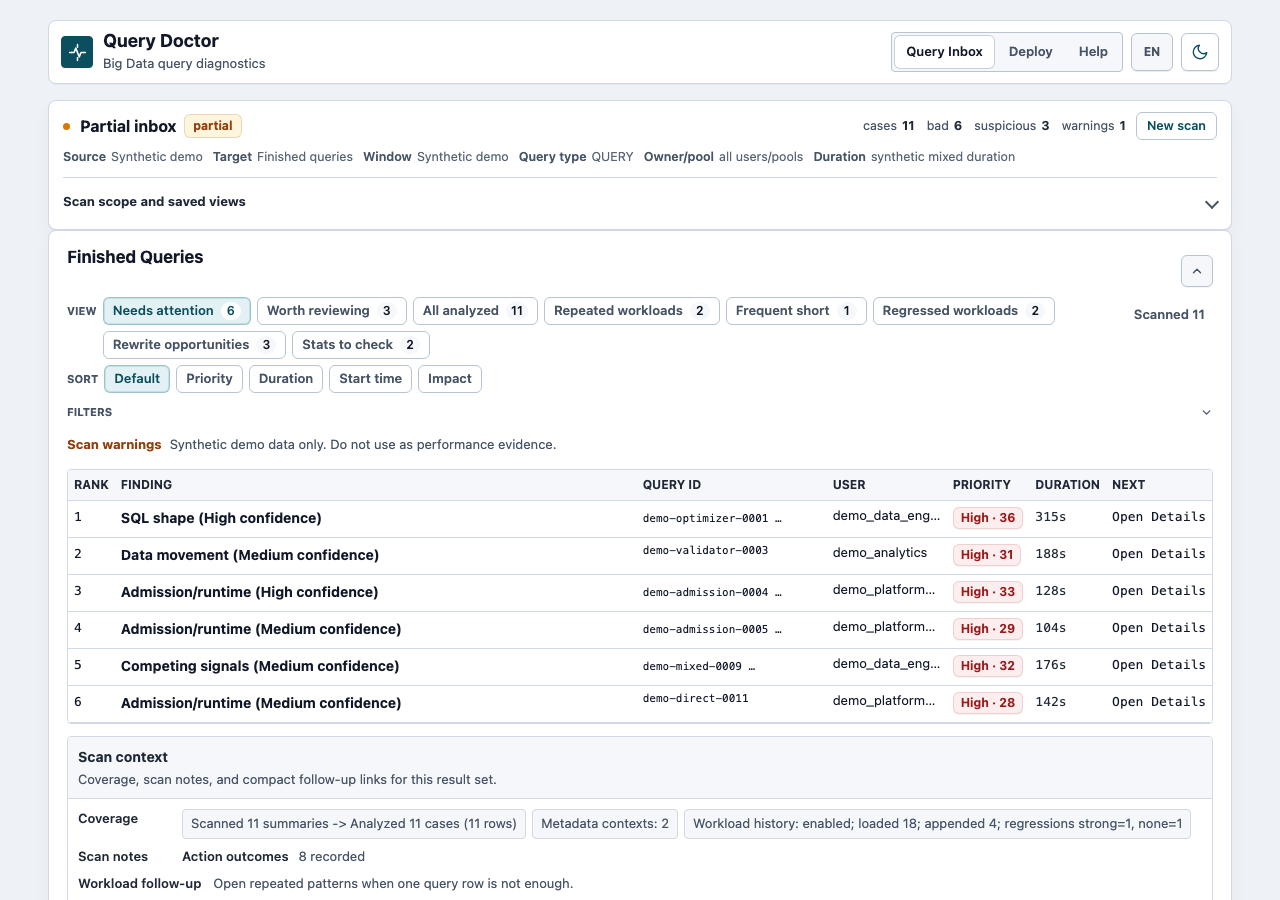
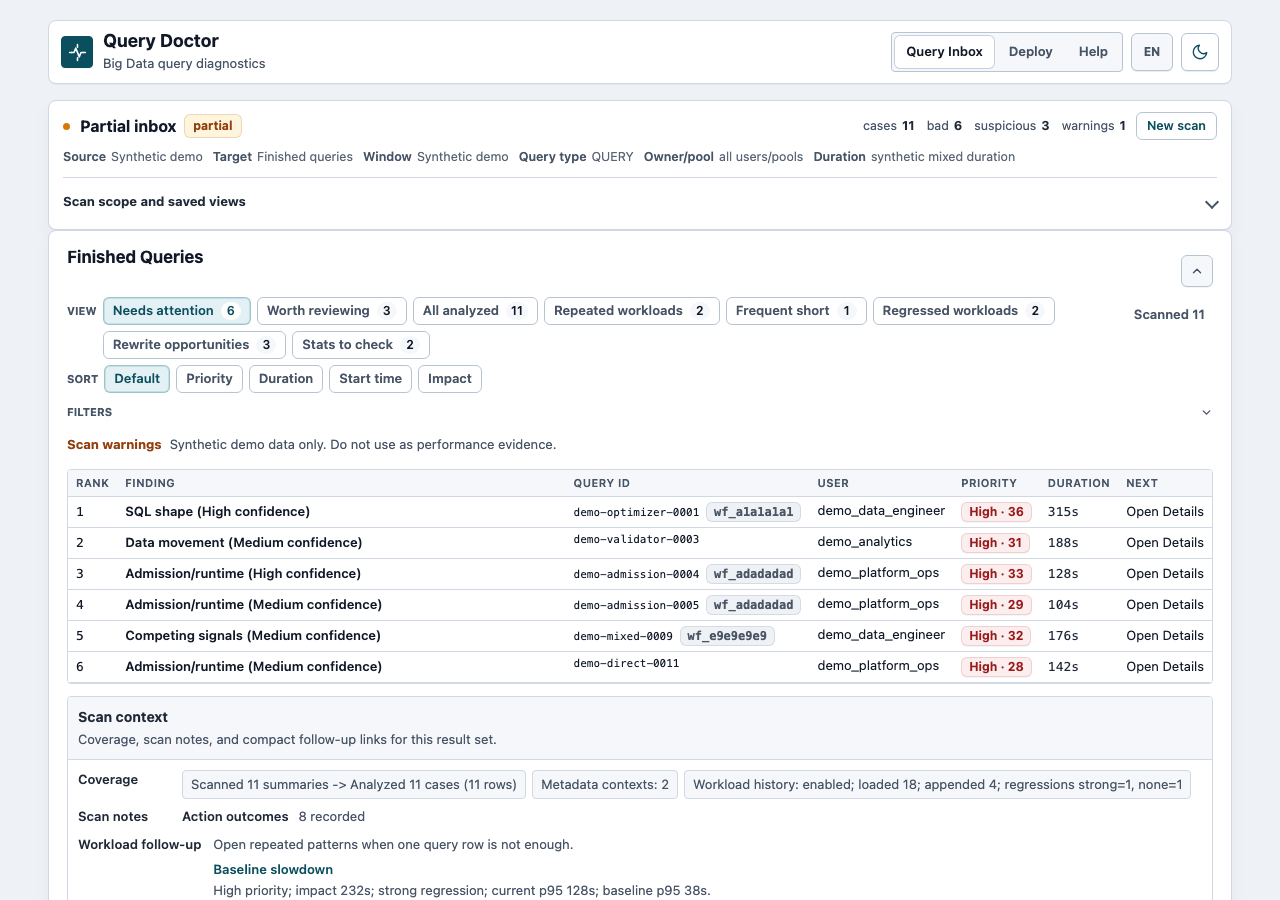
Let the results table hold a query id
The query id column was capped at 190px while the id and the workload
fingerprint beside it needed 240px, so every grouped row ended in an ellipsis
and the fingerprint was never readable. The cap is 264px now and the id gets
the space first; the fingerprint is what gives way when a real 33-character id
arrives.

Rows are 31px instead of 37px, headers stop shouting in bold 12px, and the row
action stops being rendered in monospace. The user column gets 32px more before
it truncates.

On the synthetic demo at 1280x900 the All analyzed view now fits all 11 rows in
the first screen, against 2 before this change and the first-screen change
together. The README screenshots and the demo capture note follow: the results
view fits its Scan context in one 1280x1024 viewport, so the capture no longer
needs the #scan-context anchor.

Changed region(s): [[0.0625, 0.5289, 0.9375, 1.0]]

diff --git a/query_doctor/web/static/app.css b/query_doctor/web/static/app.css
@@ -3683,7 +3683,7 @@ html[data-theme=dark] select.input {
 
 .batch-table th,.batch-table td {
   border-bottom:1px solid var(--border);
-  padding:6px;
+  padding:5px 8px;
   text-align:left;
   vertical-align:top
 }
@@ -3692,11 +3692,11 @@ html[data-theme=dark] select.input {
   position:sticky;
   top:0;
   background:var(--panel-muted);
-  color:var(--strong);
-  font-size:12px;
+  color:var(--muted);
+  font-size:11px;
   text-transform:uppercase;
-  letter-spacing:0;
-  font-weight:700
+  letter-spacing:.04em;
+  font-weight:600
 }
 
 .batch-row {
@@ -3736,10 +3736,14 @@ html[data-theme=dark] select.input {
   vertical-align:middle
 }
 
+.batch-cell--action {
+  font-family:var(--sans)
+}
+
 .batch-cell--query-id {
   width:1%;
-  min-width:160px;
-  max-width:190px;
+  min-width:190px;
+  max-width:264px;
   font-family:var(--mono);
   font-size:11px;
   line-height:1.3;
@@ -3752,7 +3756,7 @@ html[data-theme=dark] select.input {
 .batch-cell--user {
   width:1%;
   min-width:76px;
-  max-width:120px;
+  max-width:152px;
   font-size:13px;
   line-height:1.3;
   white-space:nowrap;
@@ -3766,11 +3770,16 @@ html[data-theme=dark] select.input {
   white-space:normal
 }
 
+.batch-cell--summary strong:last-child {
+  margin-bottom:0
+}
+
 .batch-cell--summary strong {
   display:block;
   margin-bottom:3px;
   color:var(--text);
-  font-size:14px;
+  font-size:13px;
+  font-weight:600;
   overflow-wrap:anywhere
 }
 
@@ -3917,8 +3926,8 @@ html[data-theme=dark] select.input {
 .batch-mini-badge {
   display:inline-flex;
   align-items:center;
-  min-height:22px;
-  padding:3px 7px;
+  min-height:20px;
+  padding:2px 7px;
   border-radius:var(--radius-sm);
   border:1px solid transparent;
   font-size:12px;
@@ -5356,35 +5365,35 @@ html[data-design=command] .badge,html[data-design=command] .batch-mini-badge {
 
 .query-inbox-status-main {
   grid-template-columns:auto minmax(0,1fr);
-  gap:8px
+  align-items:start;
+  gap:6px 8px
 }
 
-.query-inbox-status-main .badge {
+.query-inbox-status-heading {
+  flex-wrap:wrap
+}
+
+.query-inbox-metrics {
+  grid-column:2;
+  justify-content:flex-start;
+  gap:4px 10px
+}
+
+.query-inbox-action {
   grid-column:2;
   justify-self:start
 }
 
 .query-inbox-status-main h1 {
-  font-size:18px
-}
-
-.query-inbox-metrics {
-  gap:6px;
-  margin-top:10px
-}
-
-.query-inbox-metric {
-  min-height:26px;
-  padding:4px 7px;
-  font-size:12.5px
+  font-size:16px
 }
 
 .query-inbox-scope {
-  gap:5px;
+  gap:2px 10px;
   margin-top:8px
 }
 
-.query-inbox-scope-item,.query-inbox-active-filter-chip {
+.query-inbox-active-filter-chip {
   flex:1 1 auto;
   min-height:26px;
   padding:4px 7px;
@@ -5814,9 +5823,8 @@ html[data-design=command] .badge,html[data-design=command] .batch-mini-badge {
 }
 
 .case-verdict-chip {
-  align-items:flex-start;
-  width:100%;
-  border-radius:var(--radius-sm)
+  align-items:baseline;
+  width:100%
 }
 
 .case-verdict-chip strong {

diff --git a/tests/test_web_server.py b/tests/test_web_server.py
@@ -4638,7 +4638,8 @@ def test_web_batch_route_renders_configured_summary_safely(tmp_path):
     assert_css_contains(styles, ".batch-filter-tabs{flex-wrap:wrap;overflow-x:visible;")
     assert_css_contains(styles, ".batch-scan-details{margin-bottom:12px;")
     assert_css_contains(
-        styles, ".batch-table th,.batch-table td{border-bottom:1px solid var(--border);padding:6px;"
+        styles,
+        ".batch-table th,.batch-table td{border-bottom:1px solid var(--border);padding:5px 8px;",
     )
     assert_css_contains(
         styles,
@@ -4668,8 +4669,8 @@ def test_web_batch_route_renders_configured_summary_safely(tmp_path):
         ".batch-results-table--suspicious td:nth-child(7)::before,"
         '.batch-results-table--all td:nth-child(7)::before{content:"Next"}',
     )
-    assert_css_contains(styles, ".batch-cell--query-id{width:1%;min-width:160px;max-width:190px;")
-    assert_css_contains(styles, ".batch-cell--user{width:1%;min-width:76px;max-width:120px;")
+    assert_css_contains(styles, ".batch-cell--query-id{width:1%;min-width:190px;max-width:264px;")
+    assert_css_contains(styles, ".batch-cell--user{width:1%;min-width:76px;max-width:152px;")
     assert_css_contains(styles, ".batch-cell--summary{width:100%;min-width:320px;")
     assert 'class="batch-cell--compact"' in body
     assert 'class="batch-cell--query-id"' in body

diff --git a/docs/changelog.md b/docs/changelog.md
@@ -24,6 +24,15 @@ release notes remain in [release-notes-0.10.0.md](release-notes-0.10.0.md),
 
 ## Unreleased
 
+- The results table now shows the query id it is supposed to hand to the
+  coordinator. The column was capped at 190px while the id and the workload
+  fingerprint beside it needed 240px, so every grouped row ended in an ellipsis
+  and the fingerprint was never readable; the cap is 264px now and the id wins
+  the space. Rows are 31px instead of 37px, headers stop shouting in bold
+  12px, and the row action stops being rendered in monospace. On the synthetic
+  demo at 1280x900 the `All analyzed` view fits all 11 rows in the first
+  screen, against 2 before this and the first-screen change together.
+
 - Details now reads as one document instead of a stack of boxes. The
   recommendation card kept its sections in bordered panels with green, teal and
   amber left rules, so `Why this query matters`, `What to try` and `How to

diff --git a/docs/demo-mode.md b/docs/demo-mode.md
@@ -121,8 +121,11 @@ supported change direction to try, how to verify a comparable rerun, and local
 synthetic outcome history.
 
 ```text
-http://127.0.0.1:8766/?query_group=workloads#scan-context
+http://127.0.0.1:8766/?query_group=workloads
 ```
+
+The results view now fits its Scan context in one 1280x1024 viewport, so the
+capture no longer needs the `#scan-context` anchor.
 
 Capture browser viewports and replace only the public synthetic screenshots.
 Do not commit the generated demo pack, local config, local browser output, raw
